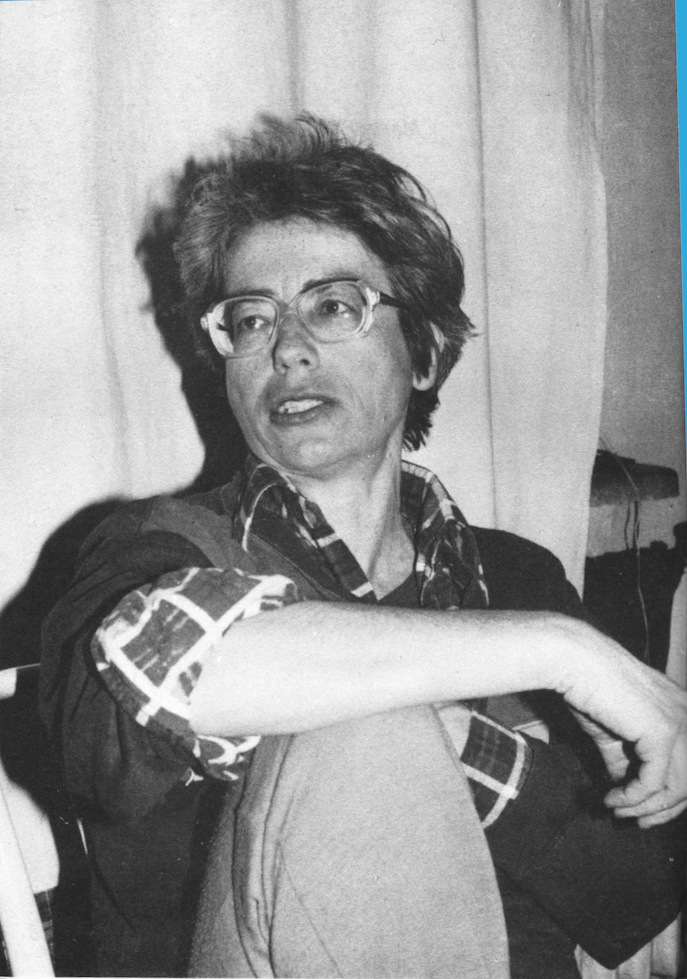
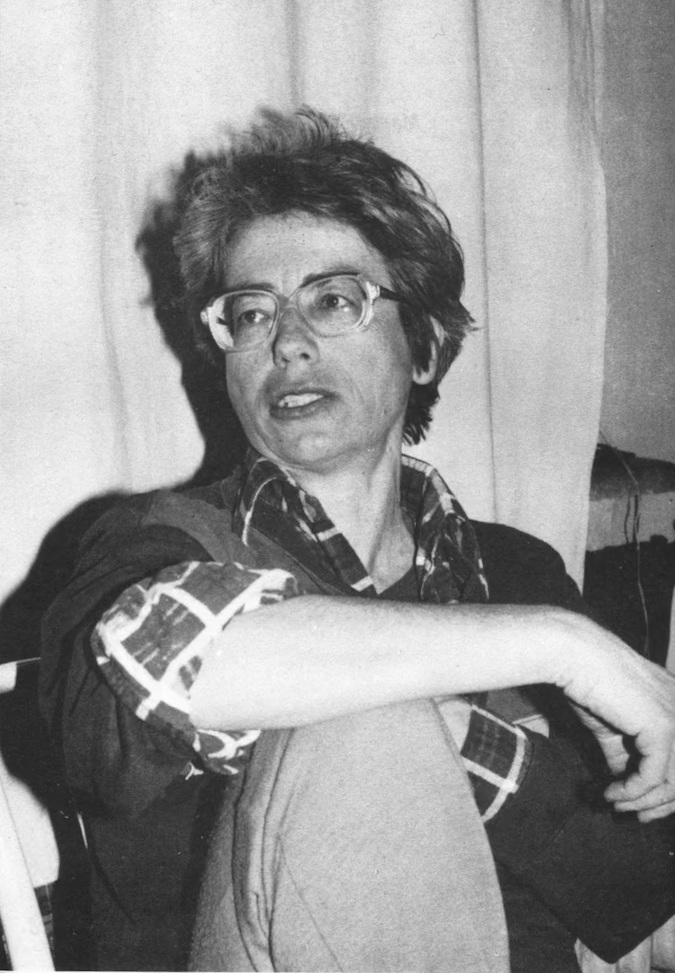
formatowanie

diff --git a/Marta Pajchel - wiersze wybrane.md b/Marta Pajchel - wiersze wybrane.md
@@ -4,7 +4,6 @@
 
 ---
 
-<small>
 nie odchodź ode mnie  
 Jeszcze  
 już niedługo wiosna  
@@ -12,7 +11,6 @@ przecież
 potem lato  
 i znów zima  
 wytrzymasz*  
-</small>
 
 
 Wytrzymać było jednak coraz trudniej. Jej organizm poddawał się nowym słabościom, do postępującej „padasi” dołączyła cukrzyca. A Marta nie była człowiekiem walki, lecz człowiekiem troski: „padasia” to było także stworzenie Boże i nie należało jej zbyt brutalnie leczyć...
